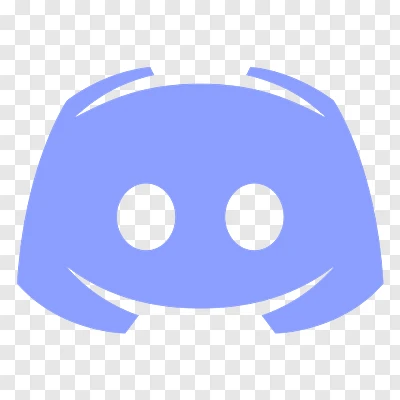
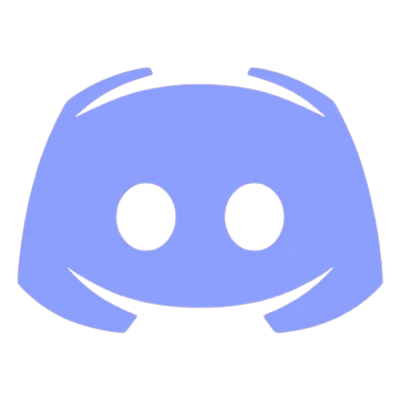
Redesign contact buttons with new pill style
Introduces a new .snek-btn pill button style in material.css and updates the contact page to use image-based GitHub and Discord buttons for a more modern, consistent look. Also updates the Discord icon image.

diff --git a/assets/css/material.css b/assets/css/material.css
@@ -1083,3 +1083,53 @@ body::before {
   color: #7289da;
   pointer-events: none;
 }
+/* Base pill button */
+.snek-btn {
+  display: inline-flex;
+  align-items: center;
+  gap: 10px;
+
+  padding: 12px 22px;
+  border-radius: 999px;
+
+  background: rgba(10, 12, 20, 0.7);
+  color: #ffffff;
+  font-size: 0.95rem;
+  font-weight: 600;
+  letter-spacing: 0.4px;
+
+  border: 2px solid transparent;
+
+  /* Gradient border effect */
+  background-image:
+    linear-gradient(#0f172a, #0f172a),
+    linear-gradient(90deg, #7b2ff7, #00c6ff);
+  background-origin: border-box;
+  background-clip: padding-box, border-box;
+
+  cursor: pointer;
+  transition: 0.25s ease;
+}
+
+/* Hover glow */
+.snek-btn:hover {
+  transform: translateY(-2px) scale(1.03);
+  background-image:
+    linear-gradient(#0f172a, #0f172a),
+    linear-gradient(90deg, #9a55ff, #1fd2ff);
+}
+
+/* GitHub SVG */
+.btn-icon {
+  width: 20px;
+  height: 20px;
+  fill: white;
+}
+
+/* Discord PNG/WebP */
+.btn-icon-img {
+  width: 22px;
+  height: 22px;
+  object-fit: contain;
+  filter: brightness(1.3);
+}

diff --git a/contact.md b/contact.md
@@ -21,47 +21,30 @@ permalink: /contact/
     <div class="contact-pill-row">
 
 
-    <!-- GitHub Button (unchanged, but cleaned) -->
-   <a href="https://github.com/SnekSoft-Studios/">
-  <button
-    class="flex items-center bg-white border border-gray-300 rounded-lg shadow-md px-6 py-2 text-sm font-medium text-gray-800 hover:bg-gray-200 focus:outline-none focus:ring-2 focus:ring-offset-2 focus:ring-gray-500">
+    <!-- GitHub Button -->
+<a href="https://github.com/SnekSoft-Studios/">
+  <button class="snek-btn">
+    <img
+      src="https://e7.pngegg.com/pngimages/571/879/png-clipart-github-computer-icons-icon-design-branching-github-logo-computer-wallpaper.png"
+      class="btn-icon-img"
+      alt="Git Logo"
+    />
 
-      <svg class="h-6 w-6 mr-2" viewBox="0 0 16 16" version="1.1" aria-hidden="true">
-        <path
-          fill-rule="evenodd"
-          d="M8 0C3.58 0 0 3.58 0 8c0 3.54 2.29 6.53 5.47 7.59.4.07.55-.17.55-.38
-             0-.19-.01-.82-.01-1.49-2.01.37-2.53-.49-2.69-.94-.09-.23-.48-.94-.82-1.13-.28-.15-.68-.52
-             -.01-.53.63-.01 1.08.58 1.23.82.72 1.21 1.87.87 2.33.66.07-.52.28-.87.51-1.07-1.78-.2
-             -3.64-.89-3.64-3.95 0-.87.31-1.59.82-2.15-.08-.2-.36-1.02.08-2.12 0 0 .67-.21
-             2.2.82A7.65 7.65 0 0 1 8 4.98c.68.003 1.36.092 2 .27 1.53-1.04 2.2-.82
-             2.2-.82.44 1.1.16 1.92.08 2.12.51.56.82 1.27.82 2.15 0 3.07-1.87
-             3.75-3.65 3.95.29.25.54.73.54 1.48 0 1.07-.01 1.93-.01 2.2
-             0 .21.15.46.55.38A8.013 8.013 0 0 0 16 8c0-4.42-3.58-8-8-8z">
-        </path>
-      </svg>
-
-      <span>Continue with GitHub</span>
   </button>
 </a>
 
-    <!-- Discord Button (new, matching GitHub pill) -->
- <a href="https://discord.com/bXUMBDKZVx">
-  <button
-    class="flex items-center bg-white border border-gray-300 rounded-lg shadow-md px-6 py-2 text-sm font-medium text-gray-800 hover:bg-gray-200 focus:outline-none focus:ring-2 focus:ring-offset-2 focus:ring-gray-500">
+<!-- Discord Button -->
+<a href="https://discord.com/bXUMBDKZVx">
+  <button class="snek-btn">
+    <img
+      src="https://image.pngaaa.com/867/704867-middle.png"
+      class="btn-icon-img"
+      alt="Discord Logo"
+    />
 
-      <svg class="h-6 w-6 mr-2" xmlns="http://www.w3.org/2000/svg" xmlns:xlink="http://www.w3.org/1999/xlink"
-          width="800px" height="800px" viewBox="0 -28.5 256 256" version="1.1" preserveAspectRatio="xMidYMid">
-          <g>
-              <path
-                  d="M216.856339,16.5966031 C200.285002,8.84328665 182.566144,3.2084988 164.041564,0 C161.766523,4.11318106 159.108624,9.64549908 157.276099,14.0464379 C137.583995,11.0849896 118.072967,11.0849896 98.7430163,14.0464379 C96.9108417,9.64549908 94.1925838,4.11318106 91.8971895,0 C73.3526068,3.2084988 55.6133949,8.86399117 39.0420583,16.6376612 C5.61752293,67.146514 -3.4433191,116.400813 1.08711069,164.955721 C23.2560196,181.510915 44.7403634,191.567697 65.8621325,198.148576 C71.0772151,190.971126 75.7283628,183.341335 79.7352139,175.300261 C72.104019,172.400575 64.7949724,168.822202 57.8887866,164.667963 C59.7209612,163.310589 61.5131304,161.891452 63.2445898,160.431257 C105.36741,180.133187 151.134928,180.133187 192.754523,160.431257 C194.506336,161.891452 196.298154,163.310589 198.110326,164.667963 C191.183787,168.842556 183.854737,172.420929 176.223542,175.320965 C180.230393,183.341335 184.861538,190.991831 190.096624,198.16893 C211.238746,191.588051 232.743023,181.531619 254.911949,164.955721 C260.227747,108.668201 245.831087,59.8662432 216.856339,16.5966031 Z M85.4738752,135.09489 C72.8290281,135.09489 62.4592217,123.290155 62.4592217,108.914901 C62.4592217,94.5396472 72.607595,82.7145587 85.4738752,82.7145587 C98.3405064,82.7145587 108.709962,94.5189427 108.488529,108.914901 C108.508531,123.290155 98.3405064,135.09489 85.4738752,135.09489 Z M170.525237,135.09489 C157.88039,135.09489 147.510584,123.290155 147.510584,108.914901 C147.510584,94.5396472 157.658606,82.7145587 170.525237,82.7145587 C183.391518,82.7145587 193.761324,94.5189427 193.539891,108.914901 C193.539891,123.290155 183.391518,135.09489 170.525237,135.09489 Z"
-                  fill="#5865F2" fill-rule="nonzero">
-              </path>
-          </g>
-      </svg>
-
-      <span>Continue with Discord</span>
   </button>
 </a>
+
     </div>
 
   </div>
